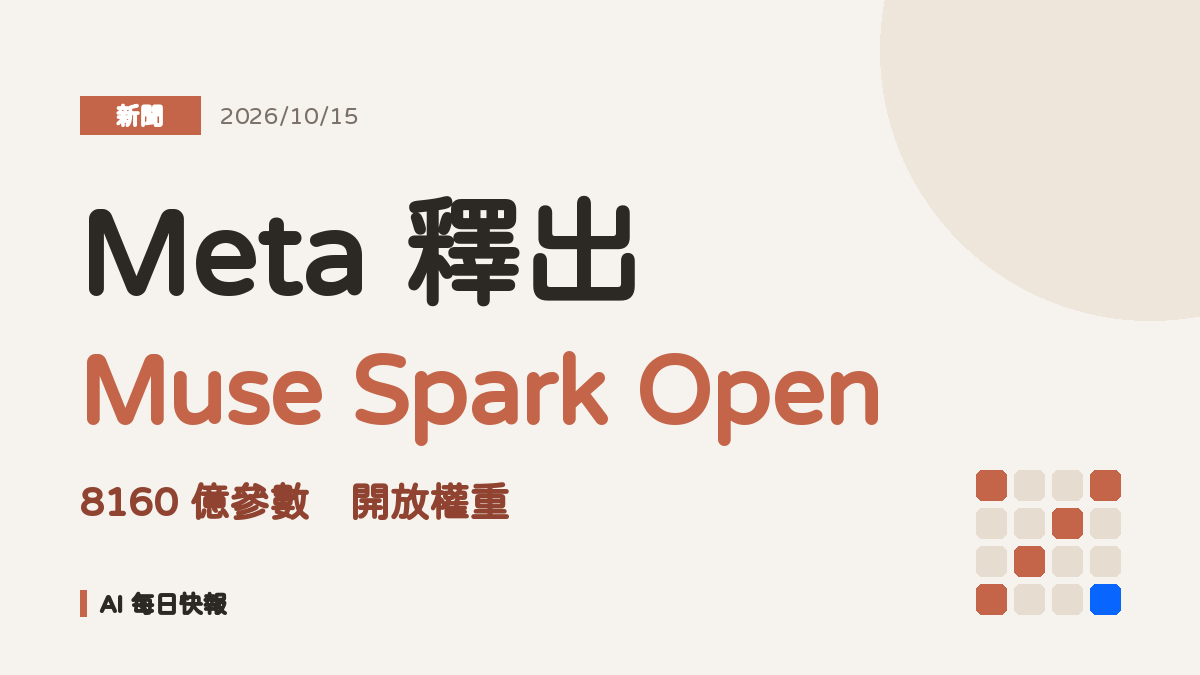
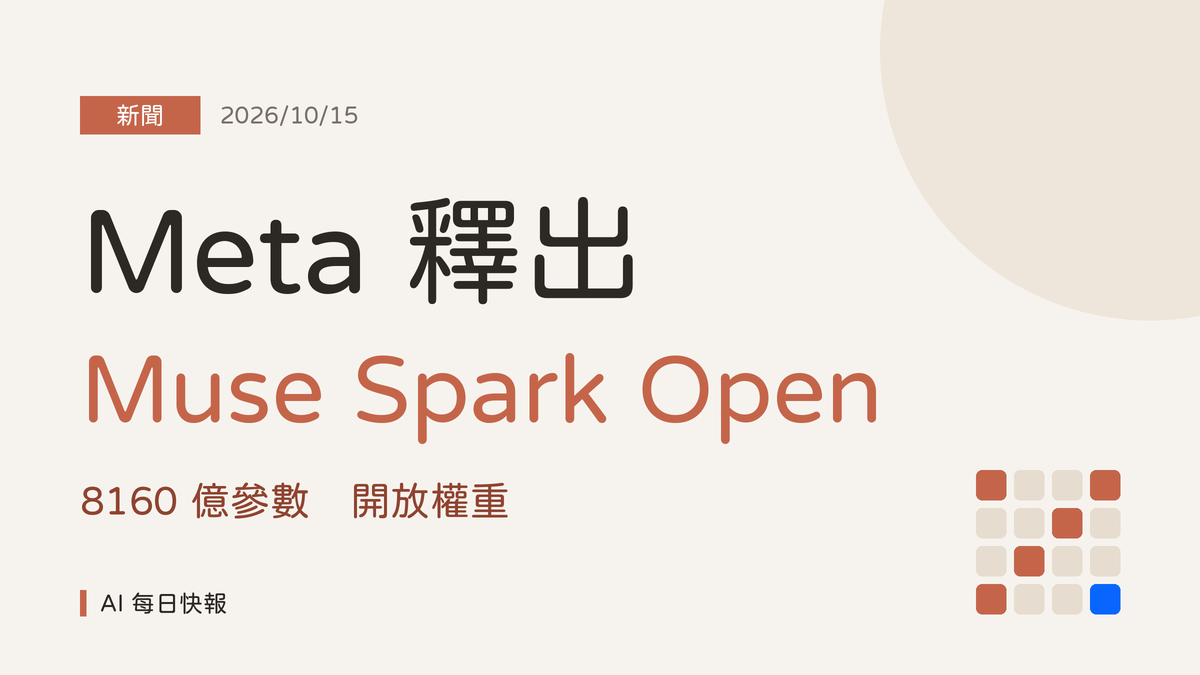
Muse Spark Open: replace cover with fixed version and add specs image (#20)
* Replace Muse Spark Open cover with fixed version

* Add Muse Spark Open specs image

diff --git a/_posts/2026-10-16-muse-spark-open.md b/_posts/2026-10-16-muse-spark-open.md
@@ -32,6 +32,8 @@ sources:
 
 權重可透過 Hugging Face、Amazon SageMaker AI、Google Cloud Model Garden、Microsoft Foundry Models 下載；API 則可由 Baseten、Fireworks AI、Groq、Modal、Nebius、OpenRouter、Together AI 等平台呼叫。推論引擎方面，官方列出 SGLang、vLLM、TensorRT-LLM、Hugging Face Transformers、Apple MLX、llama.cpp、Unsloth 等，並提到針對 NVIDIA、AMD、Intel 與 Apple 矽片的優化。開放權重版本還附上可自動調校的 Helion GPU kernel（搭配 SGLang），官方稱在 NVIDIA 與 AMD 上可帶來約 **1.03 至 3.95 倍**的 kernel 層加速。
 
+<img src="{{ '/assets/images/posts/2026-10-16-muse-spark-open/specs.png' | relative_url }}" width="1200" style="max-width:100%;height:auto" alt="Muse Spark Open 規格速覽：總參數約 8160 億、MoE 架構每次推論約啟動 420 億、支援 100 萬 token 上下文。下方流程圖顯示兩種使用方式：用兩台 M5 Ultra Mac Studio 搭配 Apple MLX 在本機推論，或透過 Groq、OpenRouter 等雲端 API 呼叫。">
+
 授權採 **Muse Model License**，帶有有限商業條款——許多開發者可免費使用，但並非毫無限制的「完全開源」。安全面上，Meta 表示針對開放權重情境做了額外安全後訓練，並依其 Meta Superintelligence Scaling Framework 評估後達到可釋出門檻；細部數字指向模型卡與即將公開的完整評估報告。
 
 ## 為什麼「兩台 Mac Studio」會成為焦點
